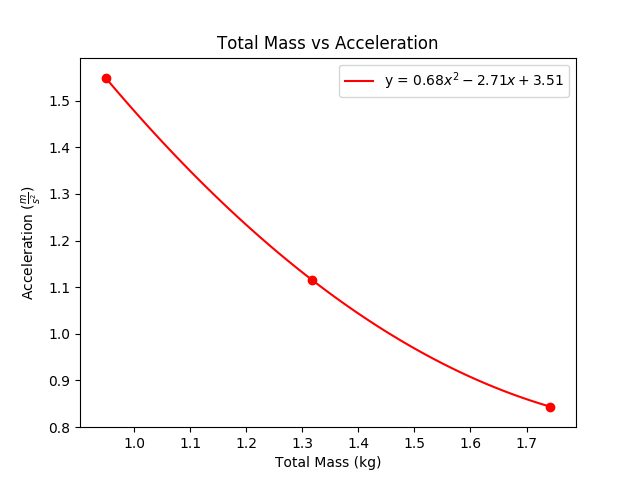
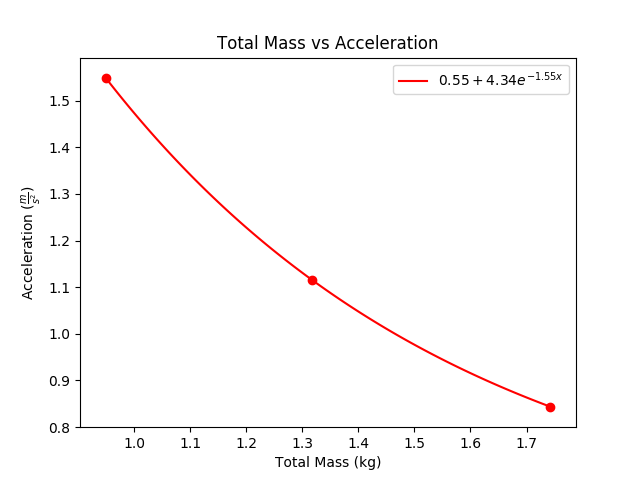
Fixing Graphs

diff --git a/SmallQuestions/mass.py b/SmallQuestions/mass.py
@@ -1,22 +1,30 @@
 import matplotlib.pyplot as plt
-from scipy.interpolate import interp1d
+from scipy.optimize import curve_fit
 import numpy as np
 
 x1 = [0.95, 1.317, 1.742]
 y1 = [1.548, 1.116, 0.844]
 
 
+def func(x, a, b, c):
+    return a + b * np.exp(c * x)
+
+
 def plot(x_data, y_data, color):
-    x = np.linspace(min(x_data), max(x_data), 100)
-    f = interp1d(x_data, y_data, kind="quadratic")
-    plt.plot(x, f(x), color=color, label="y = $0.68x^2-2.71x+3.51$")
+    initial = [1, 1, -1.2]
+    t = curve_fit(func, x_data, y_data, initial)
+    print(t[0])
+    xd = np.linspace(min(x_data), max(x_data), 100)
+    fit = [func(x, *t[0]) for x in xd]
+    print("{} + {}e^{}x".format(*list(map(lambda x: round(x,2), t[0]))))
+    plt.plot(xd, fit, color=color, label="$0.55 + 4.34e^{-1.55x}$")
 
 
 plt.title("Total Mass vs Acceleration")
 plt.xlabel("Total Mass (kg)")
 plt.ylabel(r"Acceleration $(\frac{m}{s^2})$")
 plt.scatter(x1, y1, color="r")
-plot(x1, y1,  color="r")
+plot(x1, y1, color="r")
 plt.legend(loc="upper right")
 plt.savefig("mass.png")
 plt.show()
